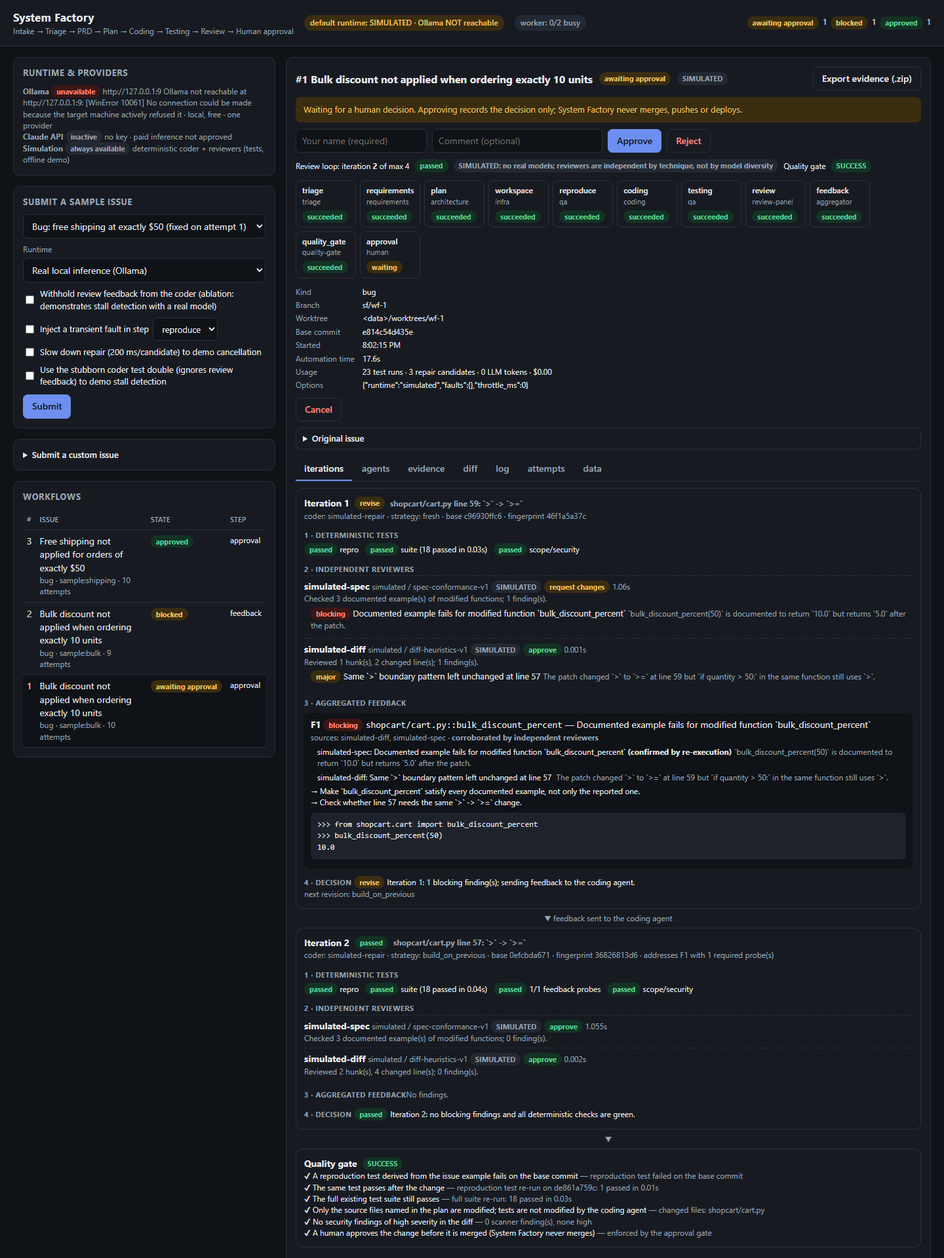
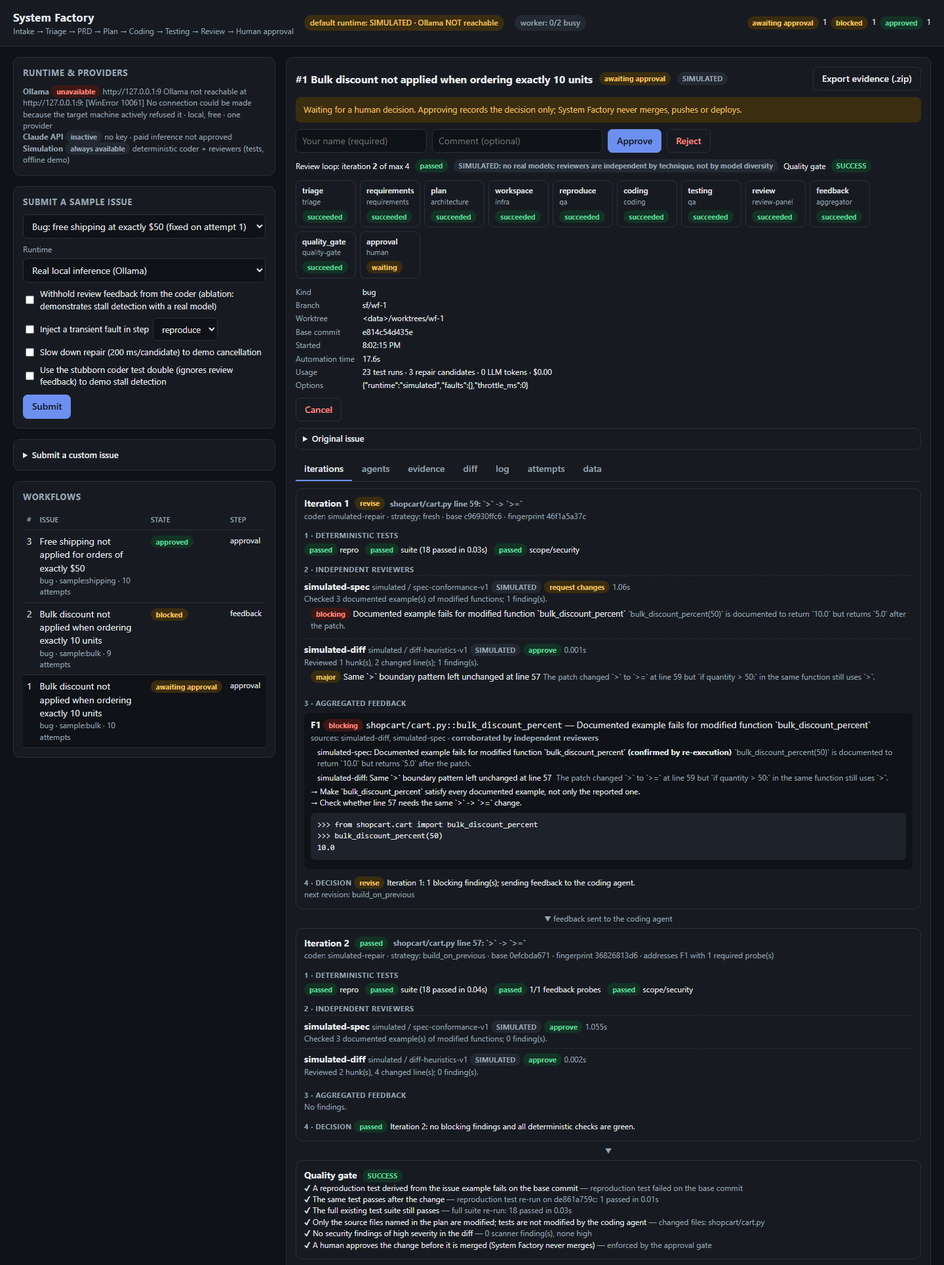
Milestone 5.1 docs: both runtimes, unverified real scenarios, D18-D20
- PRESENTATION.md: two-runtime explanation, real/simulated/unverified/planned
  table, orchestrator vs LLM roles, why review sits between iterations
  (benefits, costs, limitations); Milestone 4 framing kept as historical
- DEMO.md: deterministic live demo plus optional Ollama part with a
  per-scenario validation status table
- DECISIONS.md: D18 executed reviewer checks, D19 Ollama runtime,
  D20 process-level hardening and the Windows line-ending fix
- MILESTONE5_STATUS.md: 5.1 results; dashboard 'No findings' layout fix;
  screenshot 1 re-captured

diff --git a/systemfactory/static/index.html b/systemfactory/static/index.html
@@ -260,7 +260,7 @@ function renderIterations(d) {
         ${i.findings.map(f => `<div class="finding small">${esc(f.reviewer)}: ${esc(f.title)} ${f.confirmed === true ? "<b>(confirmed by re-execution)</b>" : f.confirmed === false ? "<b>(unconfirmed → downgraded)</b>" : ""}<span class="d">${esc(f.detail || "")}</span></div>`).join("")}
         ${i.suggestions.map(s => `<div class="small">→ ${esc(s)}</div>`).join("")}
         ${i.probes.map(pr => `<pre>${esc(pr)}</pre>`).join("")}
-      </div>`).join("") : (it.decision ? `<span class="muted small">No findings.</span>` : `<span class="muted small">pending</span>`);
+      </div>`).join("") : (it.decision ? `<div class="muted small">No findings.</div>` : `<div class="muted small">pending</div>`);
     const card = `<div class="iter ${open.includes(it.status) ? "open" : ""}">
       <h3>Iteration ${it.n} ${chip(it.status)} <span class="small muted">${p.mutation ? esc(p.file + " " + p.mutation) : "coding…"}</span></h3>
       <div class="small muted">${p.coder ? `coder: ${esc(p.coder)}${p.model ? ` <b>${esc(p.model)}</b> (real local, ${p.turns} turns${p.feedback_given === false && it.n > 1 ? ", feedback WITHHELD" : ""})` : ""} · strategy: ${esc(p.strategy)} · base ${esc((p.base || "").slice(0, 10))} · fingerprint ${esc((it.fingerprint || "").slice(0, 10))}` : ""}

diff --git a/PRESENTATION.md b/PRESENTATION.md
@@ -2,97 +2,127 @@
 
 ## The 2-minute explanation
 
-> **What it is.** System Factory takes an incoming issue (a bug, a feature request or a support question)
-> and moves it through the same stages a good engineering team uses: triage, requirements, plan, code,
-> test, review, and then a human sign-off.
+> **What it is.** System Factory takes an incoming issue (bug, feature request or support question) through the
+> stages a good engineering team uses: triage, requirements, plan, an isolated workspace, a failing reproduction
+> test, then a loop of **coding → deterministic tests → independent review → evidence verification → feedback →
+> revision**, a final quality gate, and a human decision. It never merges, pushes or deploys.
 >
-> **The key design choice.** The *control flow* is not AI. A small deterministic orchestrator owns the state
-> machine: which step runs next, how many retries, time and compute budgets, cancellation, and the approval
-> gate. AI-style work happens only *inside* a step, through a narrow interface with explicit permissions. That
-> makes the system testable and auditable, and it guarantees a human always gets the final say.
+> **The key design choice.** The *control flow* is not AI. A deterministic orchestrator owns the state machine:
+> which step runs next, retries, iteration limits, time/token/cost budgets, cancellation and the approval gate.
+> Model-backed work happens only *inside* a step, through a narrow interface with explicit permissions. The
+> orchestrator decides what happens next; a model never does.
 >
-> **How we know a fix is real.** For a bug, the QA role turns the example from the issue into a test and
-> proves it **fails** on the current code. Then an implementation loop runs in an isolated git worktree:
-> code, run the tests, and have **at least two independent reviewers** check the actual diff against the
-> requirements and the test evidence. Their findings are merged into specific, evidence-backed feedback, and
-> each behavioural claim is re-executed as a probe so a made-up finding can't block the fix. The feedback goes back
-> to the coder for the next revision.
+> **How we know a fix is real.** The QA role turns the issue's example into a test and proves it **fails** on the
+> current code. A patch counts only when that test passes, the whole suite passes, and at least two independent
+> reviewers have no *verified* blocking finding. Reviewer claims are not trusted as text: reviewers propose
+> executable checks, and System Factory runs them in the sandbox. A failing check becomes blocking feedback for
+> the next revision; a claim that cannot be demonstrated is downgraded.
 >
-> **How it stops.** The loop ends in one of two ways. Either there are no blocking findings, and an independent
-> quality gate re-verifies every acceptance criterion. Or it detects that it is stuck (the same patch again, the
-> same failures, or no progress) or hits its iteration, time or cost budget, and escalates to a human as
-> *blocked*. A human approval is always required, and approval never merges.
+> **How it stops.** Either there are no verified blocking findings and the quality gate re-verifies every
+> acceptance criterion, or the loop detects it is stuck (same patch, same failures, no progress) or hits a budget
+> and escalates to a human as *blocked*.
 >
-> **What's real today.** The orchestrator, the loop, stall detection, budgets, worktree isolation, the quality
-> gate and the dashboard are real and covered by 46 tests. The coder and both reviewers are honestly
-> *simulations*: deterministic techniques, not LLMs, because no model runtime is configured. The two reviewers are
-> independent by technique (one executes documented examples, one analyses the diff), not by model. Adapters for
-> Claude and for any other provider exist and switch on with keys and budget approval.
->
-> **What's next.** A real coding provider that consumes the same feedback items, real multi-provider review,
-> containers, and PostgreSQL.
+> **What's real today.** Two runtimes share one pipeline. The **deterministic runtime** (search-based repair plus
+> two rule-based reviewers) is fully tested and in CI. The **Ollama runtime** (a tool-using LLM coder and two LLM
+> reviewers on local models) is implemented. It completed one real end-to-end fix, but the final versions of the
+> harder real scenarios have not been re-run yet. Two Ollama models are **one provider**, and the docs and
+> dashboard say so.
+
+## What is real, what is simulated, what is unverified
+
+| Category | Components | Evidence |
+|---|---|---|
+| **A. Deterministic runtime (verified)** | Orchestrator, state machine, iterations, stall detection, budgets, worktree isolation, quality gate, approval guard; search-based repair coder; `simulated-spec` and `simulated-diff` reviewers | Offline test suite on Windows and Ubuntu CI; sanitized evidence in `examples/evidence/` |
+| **B. Real local Ollama runtime (observed earlier in Milestone 5, on earlier code)** | `qwen2.5-coder:14b` coder: real tool calls, real patch; `phi4:14b` + `mistral-nemo:12b` reviewers | One real end-to-end success (bulk discount, 43 s). One real *false approval* of an incomplete fix, which led to the executed-checks design. A 5-case reviewer benchmark (phi4 5/5, mistral-nemo 3/5). Details in `MILESTONE5_STATUS.md` |
+| **C. Implemented, not yet validated with real models** | Real scenarios B (revision after real review), C (stall via feedback ablation), D (real model timeout), E (approval guard inside `scripts/real_demo.py`); the final executed-checks prompt in a full real loop | Offline tests cover the code paths with test doubles and an unreachable port; `scripts/real_demo.py` has not been run |
+| **D. Planned** | Container sandbox, a larger reviewer benchmark and Reviewer B choice, a second real provider (Claude or command adapter, needs approval), PostgreSQL | — |
+
+## The orchestrator and the LLM roles
+
+- The **orchestrator** is plain Python. It owns ordering, attempts, iterations, budgets, the decision rules
+  (`loop.assess_progress`) and every state transition. It is identical in both runtimes.
+- A **role** receives a `StepContext`. It can write only allow-listed files in its own worktree and run fixed
+  commands with a scrubbed environment. It reports by returning output or raising `Transient`, `Blocked` or
+  `Permanent`.
+- The **LLM coder** is one such role. It chooses one JSON action per turn (`list_files`, `read_file`, `run_tests`,
+  `submit`). It has no shell, its edits are limited to the plan's target files, and every action is a `tool_calls`
+  row.
+- The **LLM reviewers** are adapters behind the same `Reviewer` interface as the deterministic ones. Each gets a
+  deep copy of the same bundle (diff, requirements, test evidence, history) and cannot see the other's output.
+- **Evidence verification** belongs to the orchestrator side, not to a model. Tests, probes and reviewer checks are
+  executed; model-written probes are statically vetted first.
+
+## Why review happens *between* coding iterations
+
+The original design (Milestone 3) reviewed once, at the end, and retried coding blindly on failure. Tests alone
+passed a fix that was incomplete.
+
+- **Benefit:** a defect found in review becomes specific, executable feedback (a failing check) for the *next*
+  revision, instead of a rejection at the very end. Required probes accumulate, so a later revision cannot
+  silently undo an earlier fix. Repeated patches are detected by fingerprint.
+- **Cost:** every iteration pays for a test run and at least two reviews. In the deterministic bulk case that's
+  about 23 test runs instead of about 12. With real models it's about 4–8 extra model calls per iteration.
+- **Limitations:**
+  - A reviewer's expected value can be wrong. A wrong check produces a false block, which surfaces as a stall or
+    escalation rather than a bad merge, but it still costs a human's time.
+  - Small local models skip review procedures unless forced into structured output. That is why checks are a
+    required schema field.
+  - Review quality depends heavily on the model: 3/5 to 5/5 on a 5-case benchmark, which is too small to
+    generalise from.
 
 ## How to explain any decision (the four-beat pattern)
-
-Use the same four beats every time. It keeps answers short and confident:
 
 1. **Problem:** "We needed X, and the risk was Y."
 2. **Solution:** "So we did Z."
 3. **Tradeoff:** "That costs us A. We accepted it because B."
 4. **Evidence:** "And we know it works because test or demo C shows it."
 
-Example (D4): "We needed agents to change code without ever touching main. **So** every workflow gets its own
-git worktree and branch. **That costs** some branch clutter, which is fine because the branches are the audit
-trail. **And** the end-to-end test checks that main's commit hash is identical before and after approval."
-
-Tips: lead with the problem, not the technology. Say the tradeoff out loud before someone asks for it. End on
-evidence, not adjectives.
+Example (D18): "A reviewer said a patch was fine, and another time a reviewer invented a blocker. **So**
+reviewer claims only count when an executed check demonstrates them. **That costs** an extra sandboxed run per
+check, and a wrong expected value can still block, but that escalates to a human instead of merging. **And** the
+benchmark showed the probe rule turning two false blockers into non-blocking notes, and a confirmed check catching
+an incomplete fix the model itself had labelled minor."
 
 ## Likely questions from a technical reviewer
 
 **"Is this actually using AI?"**
-Not yet for coding, and the UI says so in the header. The runtime is a deterministic simulation. The architecture
-is built so that an LLM provider drops into the role interface and reports tokens and cost into the existing
-budget counters. A Claude Code subscription is a development tool; an application runtime needs Claude API
-access and an approved budget.
+Optionally. The default and CI runtime is deterministic. The Ollama runtime calls real local models, and every call
+is recorded with model, digest, tokens reported by Ollama and timing. Only one real end-to-end run is documented;
+the harder real scenarios still need to be run with the final code.
 
-**"What's the automation rate?"**
-We don't claim one. The brief's ~95% is a long-term goal. Right now we can show which sample cases end where:
-2 bugs fixed and verified, 1 bug beyond the simulated agent, 1 unreproducible report, 1 feature handed off,
-1 support answer drafted. Measuring a real rate needs a real issue set and a real LLM runtime.
+**"Are these really independent reviewers?"**
+They are independent in input (deep-copied bundle, no shared output) and in technique or model. They are **not**
+provider-diverse: two models on Ollama are one runtime, and the label says exactly that. Claude (official SDK) and a
+generic command adapter exist for a second provider but are inactive without keys and approval.
 
 **"What stops an agent from cheating, for example by editing the test?"**
-Three layers. The coding role's workspace can write only the planned source files. The scope scan, which runs every iteration and again in the quality gate, fails
-the workflow if any test file changed in the fix diff. And the reproduction test is committed *before*
-coding, so the review compares against it. There's a test that simulates a tampering agent and checks the
-gate rejects it.
+The coder's workspace can write only the planned source files, so a write to `tests/` is refused as a tool error (a
+test exercises this on the LLM path). The scope scan fails any fix diff that touches tests, every iteration and again
+in the quality gate. The reproduction test is committed before coding starts. Approval is refused without a gate
+SUCCESS.
 
-**"Is it safe to run code from an issue?"**
-Only partly, and we document that. Today it's process-level isolation: secrets stripped from the environment,
-writes confined to the worktree, timeouts. That does not stop malicious code from reading files or using
-the network. Containers are the next milestone, and until then it should only run trusted issues.
+**"Is it safe to run on untrusted repositories?"**
+No. Isolation is process-level: scrubbed environment, worktree-confined writes, timeouts, process-tree kill, and
+static vetting of model-written probes. It does not stop malicious code in the target repository from reading files
+or using the network. A container sandbox is the next step; until then, run trusted repositories only.
+
+**"The API has no authentication?"**
+Correct, it is a single-user local tool. It binds to 127.0.0.1, refuses non-local Host headers (DNS rebinding) and
+refuses cross-origin state-changing requests (CSRF).
+
+**"What's the automation rate?"**
+Not claimed. A real rate needs a real issue set and repeated real runs.
 
 **"Why SQLite and not Postgres?"**
-Postgres isn't installed here, and the store is one class. SQLite in WAL mode with atomic claims is tested
-under concurrent workers. Swapping it out is an implementation change, not a redesign.
+Postgres wasn't needed yet, and the store is one class. SQLite in WAL mode with atomic claims is tested under
+concurrent workers.
 
-**"What happens if it crashes mid-run?"**
-Workers heartbeat. On restart, workflows with a stale lease go back to the queue, and their interrupted
-attempt is recorded as `interrupted`. Steps reset their worktree to the last checkpoint commit before
-rerunning.
+**"How do you stop it looping forever?"**
+Repeated fingerprint, identical failure signature, no decrease in blocking findings over two iterations, and hard
+budgets (iterations, loop time, tokens, dollars). Any of these sets the workflow to *blocked* with an escalation
+record.
 
-**"Isn't review too late? What if the first fix is wrong?"**
-That's what the loop is for. In the bulk-discount demo the first fix passes every test but fails review: a
-documented example of the same function is still wrong. The finding is confirmed by re-running it, both reviewers
-point at the same function, and the coder gets the exact failing call as a required probe. Iteration 2 fixes it.
+## Historical note (Milestone 4)
 
-**"Are these really two different models?"**
-No, and the dashboard says so. Both are deterministic reviewers using different techniques. Each review row records
-provider, model and a `simulated` flag, and "multi-provider" is shown only when two non-simulated providers actually
-completed reviews. Claude runs through the official SDK, and any other provider plugs in via the command adapter.
-
-**"How do you stop it looping forever and burning money?"**
-Four stop rules: a repeated patch fingerprint, an identical failure signature, no decrease in blocking findings over
-two iterations, and hard budgets (iterations, loop time, tokens, dollars). Any of them sets the workflow to
-*blocked*, with an escalation record that says why and what is still open.
-
+Until Milestone 4 the coder and reviewers were deterministic only, and the presentation said "no model runtime is
+configured". That remains true of the default runtime. The Ollama runtime was added in Milestone 5.

diff --git a/DEMO.md b/DEMO.md
@@ -1,5 +1,9 @@
 # 5-Minute Demo
 
+Two parts. **Part 1** uses the deterministic runtime: no GPU or network needed, every result reproducible, and the
+same scenarios run in CI. Use it for the live demo. **Part 2** is optional and shows the same pipeline with real
+local models via Ollama. Present it only as "real inference, partially validated" (see the status table below).
+
 ## Before the demo (1 minute, off-screen)
 
 ```bash
@@ -27,11 +31,13 @@ too** (or run `init-demo --force`), because an existing demo repo is never overw
 | `feature` | CSV export request | **Blocked** at coding: needs an LLM or a human developer |
 | `support` | "How do I apply a coupon?" | Draft answer from README, waiting for approval |
 
-## Script
+## Part 1: deterministic runtime (recommended for the live demo)
 
-**0:00 to 0:30: Frame it.** Point at the header: *"Runtime: SIMULATED (no LLM)."* Say: "The control
-plane is real and deterministic. The coder and both reviewers are deterministic simulations, and the screen says
-so. The architecture is what I want to show: code, test, independent review, feedback, revise, gate, human."
+In the dashboard, set **Runtime** to **Deterministic simulation** before submitting.
+
+**0:00 to 0:30: Frame it.** Point at the header badge and the **Runtime & providers** panel. Say: "The control
+plane is deterministic in both runtimes. Here the coder and both reviewers are deterministic simulations, and every
+screen says so. The same pipeline runs real local models; I'll show what has been verified there at the end."
 
 **0:30 to 2:15: The review loop (bulk).** Submit "bulk discount at exactly 10 units". Open the **iterations** tab.
 - **Iteration 1:** the coder changes `> 10` to `>= 10`, and the deterministic tests are all green. Say: "Tests alone
@@ -56,13 +62,13 @@ iteration 1 and attempt 2 succeeded. Say: "A transient retry widens the search i
 driven by review across iterations." Then submit `coupon` with **Slow down repair** ticked and click **Cancel**
 during coding. The workflow is cancelled, the iteration is marked cancelled, and the worktree is clean.
 
-**3:45 to 4:30: Honest limits.** `feature` is **blocked** at coding (no LLM coding runtime). The header badge reads
-"SIMULATED: no real models; reviewers are independent by technique". Say: "When a real Claude key and a second
-provider are configured, the same panel runs them, and only then does it say multi-provider."
+**3:45 to 4:30: Honest limits.** `feature` is **blocked** at coding: neither runtime implements feature work yet.
+The badge reads "SIMULATED: no real models; reviewers are independent by technique". Say: "With Ollama the
+reviewers are real models, but two models on one runtime are still one provider, and the label says so."
 
 **4:30 to 5:00: Wrap.** Show the **Log** tab, where every phase transition (`Iteration 1: reviewing -> aggregating`) and
-every decision has an actor and a timestamp. Close with: "Next: a real coding provider that consumes the same
-feedback items, containers for isolation, and real token budgets."
+every decision has an actor and a timestamp. Click **Export evidence (.zip)**. Close with: "Next: run the
+real-model scenarios on the final code, then a container sandbox."
 
 ## CLI-only fallback
 
@@ -78,7 +84,31 @@ python -m systemfactory show 2
 python -m systemfactory approve 1 --by "Your Name" --comment "verified"
 ```
 
+## Part 2: real local inference with Ollama (optional)
+
+Prerequisites: Ollama running and the models pulled (README > Configure Ollama). Then `python scripts\check_models.py`
+must report all three models as installed. That script only lists models; it does not run inference.
+
+Pick **Real local inference (Ollama)** in the dashboard and submit `checkout` or `bulk`. Show the **agents** tab: every
+model call with model and digest, the tokens reported by Ollama, timing, the coder's tool calls (`run_tests`,
+`submit`), and each reviewer's executed checks. A cold model load takes 7–25 s on an RTX 5080.
+
+| Real-model scenario | Status |
+|---|---|
+| A. Genuine bug fixed by the real coder and approved by real reviewers | **Observed once** (bulk discount, 43 s) on earlier Milestone 5 code |
+| B. Incomplete first fix → real reviewer feedback → revision → gate | **Not validated** with the final code. An earlier run was a real *false approval*, which led to the executed-checks design (DECISIONS D18) |
+| C. Repeated solution / stall with a real coder (feedback ablation) | **Not validated** |
+| D. Provider unavailable / model timeout | Unavailable: covered offline against a closed port. Real model timeout: **not validated** |
+| E. Approval guard on real-runtime workflows | Guard verified deterministically. **Not run** inside `scripts/real_demo.py` |
+
+To run all five: `python scripts\real_demo.py`. It writes evidence to `data-real-demo/evidence/` and checks results
+against an oracle the agents never see. If a model fails, the run shows the real failure; it never substitutes a
+simulation.
+
 ## Evidence this demo works
 
-`python -m pytest -q` passes 46 tests. They include the same scenarios end to end, with real git worktrees
-and real pytest runs: `tests/test_workflows.py`.
+- `python -m pytest -q` runs the deterministic suite, including Part 1's scenarios end to end with real git worktrees and
+  real pytest runs (`tests/test_workflows.py`, `tests/test_review_loop.py`). It runs on Windows and Ubuntu in GitHub
+  Actions.
+- Sanitized evidence from deterministic runs of Part 1: `examples/evidence/case-a-revision-after-review/` and
+  `examples/evidence/case-b-repeated-solution-escalated/`. Screenshots: `docs/screenshots/`.

diff --git a/DECISIONS.md b/DECISIONS.md
@@ -221,3 +221,54 @@ Test names refer to files in `tests/`.
   rather than the loop grading its own work.
 - **Evidence:** `test_quality_gate_rejects_test_tampering_and_dangerous_code` (tampering after the loop is caught by
   the gate), `test_approval_requires_quality_gate_success`.
+
+---
+
+## D18. Reviewers propose executable checks; evidence outranks severity labels (Milestone 5)
+
+- **Problem:** With real local models, two reviewers approved an incomplete fix. The coder had fixed only the
+  reported function, and a related defect in a sibling function was untouched. In a 5-case benchmark, models also
+  (a) skipped the requested review procedure, (b) labelled a real defect "minor", and (c) raised blocking findings
+  against correct patches.
+- **Solution:** Reviewers must fill a `checks` array (`function`, literal-argument `call`, `expected`) for every
+  function in the changed files. System Factory gives them that function list, computed with `ast`. Checks are
+  validated (literal or pure-builtin arguments only; the expected value is emitted as a single-line `repr`) and
+  executed in the sandbox. An executed failure becomes **blocking** whatever label the model gave it. A blocking
+  claim from a model without a confirmed probe is **downgraded**. A malformed probe (`NameError`, `ImportError`, …)
+  never counts as confirmation.
+- **Reason / tradeoff:** Executed evidence is more reliable than a model's judgement in both directions. The cost:
+  a wrong expected value produces a false block. That surfaces as a stall or escalation, not a bad merge.
+- **Evidence:** The benchmark (`scripts/eval_reviewers.py`, 5 labelled patches): phi4:14b went from 3/5 to 5/5 in
+  both roles with no false blocks; the probe rule downgraded phi4's two false blockers on a correct patch.
+  Offline tests: `test_confirmed_check_upgrades_and_unverified_llm_blocker_downgrades`, `test_check_to_probe_accepts_only_safe_calls`,
+  `test_f1_multiline_expected_cannot_inject_doctest_lines`. Five cases is far too few to generalise from.
+
+## D19. Local Ollama as the second runtime; one provider is one provider (Milestone 5)
+
+- **Problem:** The simulated coder and reviewers prove the control flow but not real AI behaviour. Paid APIs need
+  approval and a budget.
+- **Solution:** An `ollama` runtime selected per workflow (`--runtime ollama` or `SF_RUNTIME`). It uses a tool-using
+  LLM coder (allow-listed JSON actions, edits limited to target files, rejected fingerprints refused) and two LLM
+  reviewers with different focus areas and models. Every model call, including failures, is an `llm_calls` row with
+  model, digest, execution type, tokens reported by Ollama and timing. In the real runtime the system never silently
+  substitutes simulated reviewers. Diversity is labelled "different models on ONE provider".
+- **Reason / tradeoff:** Local inference is free and private, but quality varies a lot between 12–14B models, and
+  Reviewer B (mistral-nemo) scored lowest. The deterministic runtime stays the default so tests and CI need no GPU.
+- **Evidence:** One real end-to-end run (bulk discount: the coder ran tests, then fixed both boundaries; both reviewers
+  approved; gate SUCCESS in 43 s). Offline: `test_real_runtime_with_unavailable_provider_fails_honestly`,
+  `test_case_c_llm_coder_cannot_edit_tests_or_escape_scope`. Not yet validated: real scenarios B–E with the final
+  code.
+
+## D20. Hardening a process-level sandbox, and saying what it is not (Milestone 5.1)
+
+- **Problem:** A security review found that model-written probes ran unvetted; a reviewer check could smuggle doctest
+  lines into a probe; the unauthenticated localhost API accepted cross-site requests; concurrent approvals could both
+  be recorded; POSIX timeouts left grandchildren running. Separately, Windows CI failed because checkouts with
+  `core.autocrlf=true` turned the demo into CRLF, and "restoring the original" rewrote files as LF.
+- **Solution:** Static AST vetting of untrusted probes, single-line `repr` for expected values, a Host allow-list and
+  Origin check, the state transition as the atomic approval gate, process-group kill, byte-exact workspace reads,
+  LF-normalised demo generation and `.gitattributes`.
+- **Reason / tradeoff:** Each fix is small and testable. None of them turns process isolation into a security boundary:
+  untrusted repositories still need a container, which is planned and not implemented.
+- **Evidence:** `tests/test_security_regressions.py` (F1–F6), `test_workspace_round_trip_preserves_crlf`,
+  `test_workflow_succeeds_from_a_crlf_checkout`; GitHub Actions on Windows and Ubuntu.

diff --git a/MILESTONE5_STATUS.md b/MILESTONE5_STATUS.md
@@ -122,6 +122,12 @@ Observations:
   + `test_case_c_llm_coder_cannot_edit_tests_or_escape_scope` + `test_approval_requires_quality_gate_success`.
 - Sanitized deterministic evidence: `examples/evidence/case-a-revision-after-review/`,
   `examples/evidence/case-b-repeated-solution-escalated/`. Real screenshots: `docs/screenshots/`.
-- Not done in 5.1: reconciling `PRESENTATION.md` / `DEMO.md` with the Ollama runtime (they still describe the
-  simulated runtime as the only one; treat those sections as historical). Isolation remains process-level, not a
-  container, and is not suitable for untrusted repositories.
+- Windows CI root cause (found from the CI log, reproduced locally with an `autocrlf=true` clone): Windows checkouts
+  turned the demo template into CRLF, and `Workspace.read_text` used universal newlines, so restoring a rejected candidate
+  rewrote the file as LF and left the worktree dirty (14 workflow tests failed on Windows only). Fixed with byte-exact
+  reads, LF demo generation and `.gitattributes`; regression tests `test_workspace_round_trip_preserves_crlf` and
+  `test_workflow_succeeds_from_a_crlf_checkout`.
+- `PRESENTATION.md` and `DEMO.md` now describe both runtimes and list the real-model scenarios that remain unverified;
+  `DECISIONS.md` gained D18–D20 for the Milestone 5 decisions.
+- Still true: isolation is process-level, not a container, and is not suitable for untrusted repositories. Real-model
+  scenarios B–E have not been run with the final code.
